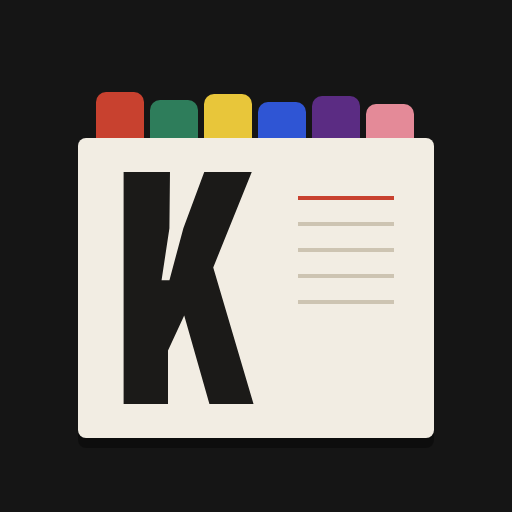
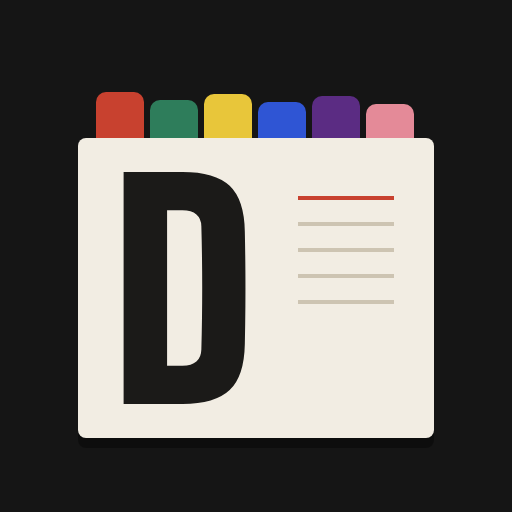
Uygulamanın adı Derkenar oldu; ikon D harfiyle
Claude-Session: https://claude.ai/code/session_01DVc8oZV7Vur9FJtnDbrshd

Changed region(s): [[0.3125, 0.3125, 0.5, 0.8125]]

diff --git a/index.html b/index.html
@@ -3,12 +3,12 @@
 <head>
 <meta charset="utf-8">
 <meta name="viewport" content="width=device-width, initial-scale=1, viewport-fit=cover">
-<title>Kenar Notları</title>
+<title>Derkenar</title>
 <meta name="theme-color" content="#151515">
 <meta name="apple-mobile-web-app-capable" content="yes">
 <meta name="mobile-web-app-capable" content="yes">
 <meta name="apple-mobile-web-app-status-bar-style" content="black-translucent">
-<meta name="apple-mobile-web-app-title" content="Kenar">
+<meta name="apple-mobile-web-app-title" content="Derkenar">
 <link rel="manifest" href="manifest.webmanifest">
 <link rel="icon" href="icons/icon-192.png" type="image/png">
 <link rel="apple-touch-icon" href="icons/apple-touch-icon.png">
@@ -263,7 +263,7 @@ details.sec[open] summary::after{content:"–"}
 
 <div class="wrap" id="app">
   <header class="mast">
-    <h1 class="logo"><span>Kenar</span><span>Notları</span></h1>
+    <h1 class="logo"><span>Derkenar</span></h1>
     <div class="mastside"><p>İzlediğin konuşmalar, içlerinde geçen insanlar ve kendi notların. Her isim bir dosya, her konuşma bir kaset.</p>
     <button class="sync" id="syncBtn" type="button" data-s="off"><i></i><span id="syncTxt">Notlar bu cihazda</span></button></div>
   </header>

diff --git a/sw.js b/sw.js
@@ -1,7 +1,7 @@
-/* Kenar Notları – offline support.
+/* Derkenar – offline support.
    Page and content: network first (so new talks show up), cached copy when offline.
    Fonts and icons: cache first. GitHub API calls are never touched. */
-const V = "kenar-v3";
+const V = "kenar-v4";
 const SHELL = ["./", "index.html", "fonts.css", "manifest.webmanifest", "data/icerik.json",
   "icons/icon-192.png", "icons/icon-512.png", "icons/apple-touch-icon.png"];
 

diff --git a/CLAUDE.md b/CLAUDE.md
@@ -1,4 +1,4 @@
-# Kenar Notları — çalışma notu
+# Derkenar (eski adıyla Kenar Notları) — çalışma notu
 
 Ata'nın kişisel öğrenme arşivi. İzlediği konuşmaların (önce Ulus Baker; sonra Hüseyin Ütün "Tasavvuf Kapısı" ve diğerleri) transkriptlerinden Claude tarafından yazılan kişi dosyaları ve kayıt özetleri.
 
